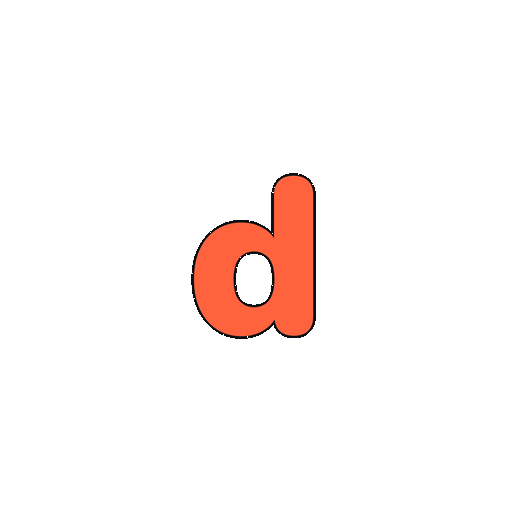
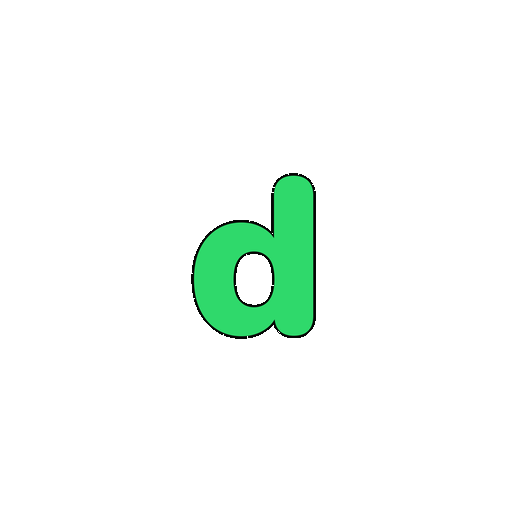
Black and green
The page is a near-black with a trace of green in it, so the artist
photographs sit on it without a colour fight. Panels lift off it in
charcoal, and the headers carry a deep forest wash, because once every
surface is dark the old ink-on-ivory contrast stops separating a screen's
top from its body.

Green is the money colour, spent only where money is: prices, Buy, Owned,
paid out. Little of the screen is green, which is what makes it read.

- One green at two intensities replaces coral and lime; danger had to
  lighten to stay readable on black.
- Tab bar and headers sit on the darkest layer; the status bar is light
  everywhere, since there are no light screens left.
- Generated cover art now draws from the app's own greens. The server
  sends a colour pair per release, but those were picked for the old
  palette and a bright blue square looked like someone else's app.
- Result tones are named for what they mean rather than what colour they
  used to be.
- Icons, manifest, HTML shell and native chrome follow.

Claude-Session: https://claude.ai/code/session_01R3QrLmgEWYcF8wcqpQix4P

Changed region(s): [[0.375, 0.3438, 0.625, 0.6562]]

diff --git a/src/components/checkout/ResultState.tsx b/src/components/checkout/ResultState.tsx
@@ -4,18 +4,18 @@ import { ActivityIndicator, StyleSheet, Text, View } from 'react-native';
 import type { PayWith } from '../../api/checkout';
 import { formatUGX } from '../../lib/money';
 import { formatPhone } from '../../lib/phone';
-import { colors, space, type, withAlpha } from '../../lib/theme';
+import { colors, space, type } from '../../lib/theme';
 import { Button, type IconName } from '../ui';
 
-type Tone = 'coral' | 'lime' | 'grey';
+type Tone = 'accent' | 'good' | 'quiet';
 const TONES: Record<Tone, { bg: string; fg: string }> = {
-  coral: { bg: withAlpha(colors.accent, 0.12), fg: colors.accent },
-  lime: { bg: colors.lime, fg: colors.limeInk },
-  grey: { bg: colors.surfaceRaised, fg: colors.textMuted },
+  accent: { bg: colors.accentSoft, fg: colors.accent },
+  good: { bg: colors.lime, fg: colors.limeInk },
+  quiet: { bg: colors.surfaceRaised, fg: colors.textMuted },
 };
 
 /** Full-screen confirmation or waiting state used by checkout, gifts and withdrawals. */
-export function ResultState({ icon, tone = 'coral', title, body, children, footnote, art }: {
+export function ResultState({ icon, tone = 'accent', title, body, children, footnote, art }: {
   icon: IconName; tone?: Tone; title: string; body: string; children?: ReactNode; footnote?: string;
   /** Shown in place of the icon, e.g. the cover of what was just bought. */
   art?: ReactNode;
@@ -53,7 +53,7 @@ export function WaitingForPin({ pay, amount }: { pay: PayWith | null; amount: nu
 /** Two minutes passed with no answer. Approving later still completes it. */
 export function StillWaiting({ what, onDone }: { what: string; onDone: () => void }) {
   return (
-    <ResultState icon="time-outline" tone="grey" title="Still waiting" footnote={TEST_MODE}
+    <ResultState icon="time-outline" tone="quiet" title="Still waiting" footnote={TEST_MODE}
       body={`We haven’t heard back from your mobile money provider yet. If you approve the prompt, ${what}. If you don’t, nothing is charged.`}>
       <Button label="Done" onPress={onDone} />
     </ResultState>
@@ -63,7 +63,7 @@ export function StillWaiting({ what, onDone }: { what: string; onDone: () => voi
 /** The payment arrived but the order couldn't be completed, so the money is kept for them. */
 export function KeptAsCredit({ reason, credit, onDone }: { reason: string | null; credit: number; onDone: () => void }) {
   return (
-    <ResultState icon="shield-checkmark-outline" tone="lime" title="Your money is safe"
+    <ResultState icon="shield-checkmark-outline" tone="good" title="Your money is safe"
       body={`${reason ?? 'We couldn’t finish this.'} Your payment is saved as ${formatUGX(credit)} of Deegee credit, and it comes off the next thing you buy.`}>
       <Button label="Done" onPress={onDone} />
     </ResultState>

diff --git a/src/lib/theme.ts b/src/lib/theme.ts
@@ -1,33 +1,36 @@
-// Deegee: warm ivory screens, ink-black type and dark "stage" moments (the player), coral for
-// actions and what's playing, and a soft lime only for good news (Owned, Live, growth).
+// Deegee runs black and green. The page is a near-black that leans very slightly green, so warm
+// photographs of artists sit on it without a colour fight. Panels lift off it in charcoal; the dark
+// headers carry a deep forest wash so a screen still has a top and a body rather than being one black
+// sheet. Green is the money colour and is spent only where money is: prices, Buy, Owned, paid out.
 export const colors = {
-  bg: '#F8F5EE', // warm ivory
-  surface: '#FFFFFF',
-  surfaceRaised: '#EFEAE1',
-  surfacePress: '#E7E1D6',
-  border: '#E7E1D6',
-  text: '#101014', // ink black
-  textMuted: '#5F5A52',
-  textFaint: '#8A8378',
-  accent: '#FF633E', // coral: fills, icons, the wordmark
-  accentText: '#C2381A', // coral dark enough to read as text on ivory
-  accentInk: '#FFFFFF', // text on coral buttons
-  lime: '#C8F56A',
-  limeInk: '#101014',
-  ink: '#101014',
-  success: '#2F7D32',
-  danger: '#C62828',
-  momo: '#FFCB05',
-  airtel: '#E40000',
+  bg: '#0A0C0A', // near-black, a touch of green in it
+  surface: '#121613', // cards, rows, inputs
+  surfaceRaised: '#1A201B',
+  surfacePress: '#232A24',
+  border: '#232A24',
+  text: '#F1F3EE', // warm off-white, not a clinical white
+  textMuted: '#99A398',
+  textFaint: '#6A7369',
+  accent: '#2FD96B', // the one green: actions and prices
+  accentText: '#58E88A', // lighter, for green set as text on the dark
+  accentInk: '#06130B', // text on a green fill
+  accentSoft: '#123520', // deep forest: tinted fills and the header wash
+  lime: '#2FD96B', // kept for the owned state, now the same green
+  limeInk: '#06130B',
+  ink: '#070907', // the darkest layer: headers, the player, the tab bar
+  success: '#2FD96B',
+  danger: '#FF6B6B', // reds have to be lighter to read on black
+  momo: '#FFCB05', // MTN's own yellow
+  airtel: '#E40000', // Airtel's own red
 };
 
-/** Colours for the dark "stage" screens (the player) and dark cards. */
+/** Was the exception for dark screens; now the app is dark, so these line up with the main palette. */
 export const onDark = {
-  bg: '#101014',
-  surface: '#1C1C22',
-  text: '#FFFFFF',
-  textMuted: '#B9B5AD',
-  accentText: '#FF8A6B',
+  bg: colors.ink,
+  surface: '#161C17',
+  text: colors.text,
+  textMuted: colors.textMuted,
+  accentText: colors.accentText,
 };
 
 // One family does almost everything: Plus Jakarta Sans, heavy and geometric for headings, clean for

diff --git a/src/app/studio/index.tsx b/src/app/studio/index.tsx
@@ -10,7 +10,7 @@ import { StatusPill } from '../../components/studio/StatusPill';
 import { Button, EmptyState } from '../../components/ui';
 import { useLoad } from '../../hooks/useLoad';
 import { formatUGX } from '../../lib/money';
-import { colors, font, onDark, radius, space, type, withAlpha } from '../../lib/theme';
+import { colors, font, onDark, radius, space, type } from '../../lib/theme';
 
 type Studio = { artist: ArtistProfile | null; releases: StudioRelease[]; earnings: Earnings | null };
 
@@ -51,7 +51,7 @@ export default function StudioHome() {
   return (
     <ScrollView contentContainerStyle={styles.content}>
       <View style={styles.header}>
-        <Art seed={artist.id} colors={artist.colors} size={64} round photo={false} />
+        <Art seed={artist.id} size={64} round photo={false} />
         <View style={styles.flex}>
           <Text style={type.title}>{artist.name}</Text>
           <StatusPill status={artist.status} />
@@ -100,7 +100,7 @@ export default function StudioHome() {
         releases.map((r) => (
           <Pressable key={r.id} accessibilityLabel={`${r.title}, ${r.type}`} onPress={() => router.push({ pathname: '/studio/release/[id]', params: { id: r.id } })}
             accessibilityRole="button" style={({ pressed }) => [styles.release, pressed && styles.pressed]}>
-            <Art seed={r.id} colors={r.colors} size={56} photo={false} uri={r.coverUrl ? mediaUrl(r.coverUrl) : null} />
+            <Art seed={r.id} size={56} photo={false} uri={r.coverUrl ? mediaUrl(r.coverUrl) : null} />
             <View style={styles.flex}>
               <Text style={type.bodyBold} numberOfLines={1}>{r.title}</Text>
               <Text style={type.small}>{r.type} · {r.tracks.length} {r.tracks.length === 1 ? 'song' : 'songs'} · {formatUGX(r.priceUGX)}</Text>
@@ -131,7 +131,7 @@ export default function StudioHome() {
 
 const styles = StyleSheet.create({
   content: { padding: space.lg, gap: space.md, paddingBottom: space.xxl * 3 },
-  introBadge: { width: 88, height: 88, borderRadius: 44, alignItems: 'center', justifyContent: 'center', backgroundColor: withAlpha(colors.accent, 0.12) },
+  introBadge: { width: 88, height: 88, borderRadius: 44, alignItems: 'center', justifyContent: 'center', backgroundColor: colors.accentSoft },
   intro: { flex: 1, alignItems: 'center', justifyContent: 'center', padding: space.xl, gap: space.md },
   centered: { textAlign: 'center' },
   mutedCentered: { textAlign: 'center', color: colors.textMuted },

diff --git a/src/components/ui/cards.tsx b/src/components/ui/cards.tsx
@@ -46,7 +46,7 @@ export function ReleaseCard({ release, size = 148, subtitle, price = true }: { r
     <Pressable onPress={() => router.push(`/release/${release.id}`)} accessibilityLabel={`${release.title} by ${artist?.name}`}
       style={({ pressed }) => [{ width: size }, pressed && styles.pressed]}>
       <View>
-        <Art seed={release.id} colors={release.colors} size={size} style={styles.cover} />
+        <Art seed={release.id} size={size} style={styles.cover} />
         {release.year >= new Date().getFullYear() ? <View style={styles.newBadge}><Text style={styles.newText}>NEW</Text></View> : null}
       </View>
       <Text numberOfLines={1} style={[type.bodyBold, styles.cardTitle]}>{release.title}</Text>
@@ -60,7 +60,7 @@ export function ArtistCard({ artist, size = 132 }: { artist: Artist; size?: numb
   return (
     <Pressable onPress={() => router.push(`/artist/${artist.id}`)} accessibilityLabel={artist.name}
       style={({ pressed }) => [{ width: size }, pressed && styles.pressed]}>
-      <Art seed={artist.id} colors={artist.colors} size={size} round />
+      <Art seed={artist.id} size={size} round />
       <Text numberOfLines={1} style={[type.bodyBold, styles.cardTitle, styles.centered]}>{artist.name}</Text>
       <Text numberOfLines={1} style={[type.small, styles.centered]}>Artist</Text>
     </Pressable>
@@ -68,13 +68,13 @@ export function ArtistCard({ artist, size = 132 }: { artist: Artist; size?: numb
 }
 
 /** A tappable list row with art and two lines of text: used for artists and releases in lists. */
-export function ListRow({ seed, colors: art, round, title, subtitle, onPress, artSize = 48 }: {
-  seed: string; colors: [string, string]; round?: boolean; title: string; subtitle: string; onPress: () => void; artSize?: number;
+export function ListRow({ seed, round, title, subtitle, onPress, artSize = 48 }: {
+  seed: string; round?: boolean; title: string; subtitle: string; onPress: () => void; artSize?: number;
 }) {
   return (
     <Pressable onPress={onPress} accessibilityRole="button" accessibilityLabel={`${title}, ${subtitle}`}
       style={({ pressed }) => [styles.listRow, pressed && styles.listRowPressed]}>
-      <Art seed={seed} colors={art} size={artSize} round={round} />
+      <Art seed={seed} size={artSize} round={round} />
       <View style={styles.flex}>
         <Text numberOfLines={1} style={type.bodyBold}>{title}</Text>
         <Text numberOfLines={1} style={type.small}>{subtitle}</Text>

diff --git a/src/app/(tabs)/index.tsx b/src/app/(tabs)/index.tsx
@@ -26,7 +26,7 @@ export default function Home() {
   const featured = releases.find((r) => r.exclusive) ?? releases[0];
   const newest = [...releases].sort((a, b) => b.year - a.year);
 
-  // Artists you've bought from come first, with a coral ring; then others worth backing.
+  // Artists you've bought from come first, with a green ring; then others worth backing.
   const backed = new Set(owned.map((t) => releases.find((r) => tracksForRelease(r.id).some((x) => x.id === t))?.artistId));
   const artists = [...listArtists()].sort((a, b) => Number(backed.has(b.id)) - Number(backed.has(a.id)));
 
@@ -93,7 +93,7 @@ function Hero({ release, playing, onPlay }: { release: Release; playing: boolean
   const open = () => router.push(`/release/${release.id}`);
   return (
     <View style={[styles.hero, { height }]}>
-      {artist ? <Art seed={artist.id} colors={artist.colors} size={Math.max(width, height)} style={[styles.heroArt, { left: (width - Math.max(width, height)) / 2 }]} /> : null}
+      {artist ? <Art seed={artist.id} size={Math.max(width, height)} style={[styles.heroArt, { left: (width - Math.max(width, height)) / 2 }]} /> : null}
       {/* Keep the logo fully on ink, then ease gradually into the portrait.
           A separate bottom fade protects the release copy without a dark band through the face. */}
       <LinearGradient
@@ -143,7 +143,7 @@ function ArtistBubble({ artist, backed }: { artist: Artist; backed: boolean }) {
     <Pressable onPress={() => router.push(`/artist/${artist.id}`)} accessibilityRole="button"
       accessibilityLabel={backed ? `${artist.name}, you back this artist` : artist.name} style={styles.bubble}>
       <View style={[styles.ring, backed && styles.ringOn]}>
-        <Art seed={artist.id} colors={artist.colors} size={68} round />
+        <Art seed={artist.id} size={68} round />
       </View>
       <Text numberOfLines={2} style={styles.bubbleName}>{artist.name}</Text>
     </Pressable>

diff --git a/src/components/Art.tsx b/src/components/Art.tsx
@@ -21,14 +21,30 @@ function hash(s: string) {
   return Math.abs(h);
 }
 
-export function Art({ seed, colors: [a, b], size, round, style, photo = true, uri: imageUri }: {
-  seed: string; colors: [string, string]; size: number; round?: boolean; style?: StyleProp<ViewStyle>; photo?: boolean;
+/**
+ * The generated covers stay inside the app's own greens. The server sends a colour pair per release,
+ * but those were picked for the old palette and a bright blue square on this background looks like
+ * someone else's app, so the pair is chosen here from the seed instead: same artwork every time, and
+ * always of a piece with everything around it.
+ */
+const PAIRS: [string, string][] = [
+  ['#0F3D2A', '#1E7A4E'], // forest to emerald
+  ['#0B3A3A', '#1C7C73'], // deep teal
+  ['#133D1A', '#3C8F2E'], // pine to leaf
+  ['#0D2F3C', '#1E6F86'], // petrol, the cool one
+  ['#1A3A12', '#5FA524'], // olive to moss
+  ['#082E22', '#2FD96B'], // near-black to the brand green
+];
+
+export function Art({ seed, size, round, style, photo = true, uri: imageUri }: {
+  seed: string; size: number; round?: boolean; style?: StyleProp<ViewStyle>; photo?: boolean;
   uri?: string | null; // a specific image (e.g. a draft's uploaded cover) instead of the one looked up by seed
 }) {
   // Mock photos load from the web on top of the pattern; if offline or a photo fails, the pattern stays.
   const [photoFailed, setPhotoFailed] = useState(false);
   const source = photoFailed ? null : imageUri ? { uri: imageUri } : photo ? photoSource(seed) : null;
   const h = hash(seed);
+  const [a, b] = PAIRS[h % PAIRS.length];
   const variant = VARIANTS[h % VARIANTS.length];
   const id = `g${h}`;
   const S = 100;

diff --git a/src/app/(tabs)/search.tsx b/src/app/(tabs)/search.tsx
@@ -19,7 +19,7 @@ function GenreTile({ genre, onPress }: { genre: Genre; onPress: () => void }) {
     <View style={styles.genreCell}>
       <Pressable onPress={onPress} accessibilityRole="button" accessibilityLabel={genre}
         style={({ pressed }) => [styles.genreTile, pressed && styles.pressed]}>
-        {sample ? <Art seed={sample.id} colors={sample.colors} size={160} style={styles.genreArt} /> : null}
+        {sample ? <Art seed={sample.id} size={160} style={styles.genreArt} /> : null}
         <LinearGradient colors={[withAlpha(colors.ink, 0), withAlpha(colors.ink, 0.8)]} locations={[0.3, 1]} style={StyleSheet.absoluteFill} />
         <Text numberOfLines={2} style={styles.genreName}>{genre}</Text>
       </Pressable>
@@ -65,10 +65,10 @@ export default function Search() {
       {searching && !nothing ? (
         <View style={styles.results}>
           {results.artists.map((a) => (
-            <ListRow key={a.id} seed={a.id} colors={a.colors} round title={a.name} subtitle="Artist" onPress={() => router.push(`/artist/${a.id}`)} />
+            <ListRow key={a.id} seed={a.id} round title={a.name} subtitle="Artist" onPress={() => router.push(`/artist/${a.id}`)} />
           ))}
           {results.releases.map((r) => (
-            <ListRow key={r.id} seed={r.id} colors={r.colors} title={r.title} subtitle={`${r.type} · ${getArtist(r.artistId)?.name}`}
+            <ListRow key={r.id} seed={r.id} title={r.title} subtitle={`${r.type} · ${getArtist(r.artistId)?.name}`}
               onPress={() => router.push(`/release/${r.id}`)} />
           ))}
           {results.tracks.map((t, i) => (

diff --git a/src/app/_layout.tsx b/src/app/_layout.tsx
@@ -5,7 +5,7 @@ import { PlusJakartaSans_500Medium } from '@expo-google-fonts/plus-jakarta-sans/
 import { PlusJakartaSans_600SemiBold } from '@expo-google-fonts/plus-jakarta-sans/600SemiBold';
 import { PlusJakartaSans_700Bold } from '@expo-google-fonts/plus-jakarta-sans/700Bold';
 import { PlusJakartaSans_800ExtraBold } from '@expo-google-fonts/plus-jakarta-sans/800ExtraBold';
-import { Stack, useSegments } from 'expo-router';
+import { Stack } from 'expo-router';
 import { Wordmark } from '../components/Wordmark';
 import { StatusBar } from 'expo-status-bar';
 import { useEffect } from 'react';
@@ -82,8 +82,6 @@ export default function RootLayout() {
   const signedIn = useSignedIn();
   const hasName = useSession((s) => Boolean(s.user?.name?.trim()));
   const catalog = useCatalog((s) => s.status);
-  const segments = useSegments();
-  const lightScreen = segments[0] === 'sign-in' || segments[0] === 'welcome';
   const catalogError = useCatalog((s) => s.error);
 
   useEffect(() => { void useCatalog.getState().load(); }, []);
@@ -94,8 +92,8 @@ export default function RootLayout() {
 
   return (
     <View style={styles.root}>
-      {/* Every screen has a dark top except the two ivory ones you only see once. */}
-      <StatusBar style={lightScreen ? 'dark' : 'light'} />
+      {/* The whole app is dark now, top to bottom. */}
+      <StatusBar style="light" />
       {/* Playback is a browser thing; there is no audio on the machine that renders these pages. */}
       {PRERENDERING ? null : <PlayerEngine />}
       <AccountSync signedIn={signedIn} />

diff --git a/src/app/(tabs)/library.tsx b/src/app/(tabs)/library.tsx
@@ -94,7 +94,7 @@ export default function Library() {
           <View style={styles.grid}>
             {ownedReleases.map((r) => (
               <Pressable key={r.id} onPress={() => router.push(`/release/${r.id}`)} accessibilityLabel={r.title} style={styles.gridCell}>
-                <View style={styles.gridArt}><Art seed={r.id} colors={r.colors} size={170} style={styles.fill} /></View>
+                <View style={styles.gridArt}><Art seed={r.id} size={170} style={styles.fill} /></View>
                 <View style={styles.gridMeta}>
                   <Text numberOfLines={1} style={type.bodyBold}>{r.title}</Text>
                   <Text numberOfLines={1} style={type.small}>{getArtist(r.artistId)?.name}</Text>
@@ -109,7 +109,7 @@ export default function Library() {
       {signedIn && view === 'Artists' ? (
         myArtists.length === 0 ? <EmptyState icon="people-outline" title="No artists yet" body="Follow artists or buy their music to keep them here." /> : (
           myArtists.map((a) => (
-            <ListRow key={a.id} seed={a.id} colors={a.colors} round artSize={64} title={a.name}
+            <ListRow key={a.id} seed={a.id} round artSize={64} title={a.name}
               subtitle={following.includes(a.id) ? 'Following' : 'Artist'} onPress={() => router.push(`/artist/${a.id}`)} />
           ))
         )

diff --git a/src/components/ui/ScreenHeader.tsx b/src/components/ui/ScreenHeader.tsx
@@ -1,4 +1,5 @@
 import type { ReactNode } from 'react';
+import { LinearGradient } from 'expo-linear-gradient';
 import { StyleSheet, Text, View } from 'react-native';
 import { useSafeAreaInsets } from 'react-native-safe-area-context';
 import { colors, font, onDark, radius, space } from '../../lib/theme';
@@ -14,6 +15,8 @@ export function ScreenHeader({ title, subtitle, right, children }: {
   const insets = useSafeAreaInsets();
   return (
     <View style={[styles.top, { paddingTop: insets.top + space.sm }]}>
+      <LinearGradient colors={[colors.accentSoft, colors.ink]} start={{ x: 0, y: 0 }} end={{ x: 0.6, y: 1 }}
+        style={StyleSheet.absoluteFill} pointerEvents="none" />
       <View style={styles.bar}>
         <Wordmark size={28} style={styles.flex} />
         {right}
@@ -41,5 +44,5 @@ const styles = StyleSheet.create({
   flex: { flex: 1 },
   title: { fontFamily: font.display, fontSize: 32, lineHeight: 38, letterSpacing: -1, color: onDark.text, marginTop: space.xs },
   subtitle: { fontFamily: font.medium, fontSize: 15, lineHeight: 21, color: onDark.textMuted, marginTop: space.xs },
-  strip: { position: 'absolute', top: 0, left: 0, right: 0, backgroundColor: colors.ink },
+  strip: { position: 'absolute', top: 0, left: 0, right: 0, backgroundColor: colors.accentSoft },
 });

diff --git a/src/components/checkout/PayWith.tsx b/src/components/checkout/PayWith.tsx
@@ -2,7 +2,7 @@ import { useState } from 'react';
 import { Pressable, StyleSheet, Text, TextInput, View } from 'react-native';
 import type { PayWith } from '../../api/checkout';
 import { formatPhone, guessProvider, normalizeUgPhone, type Provider } from '../../lib/phone';
-import { colors, font, radius, space, type, withAlpha } from '../../lib/theme';
+import { colors, font, radius, space, type } from '../../lib/theme';
 import { useSession } from '../../store/session';
 import { tap } from '../ui';
 
@@ -64,7 +64,7 @@ const styles = StyleSheet.create({
   wrap: { gap: space.md },
   options: { gap: space.sm },
   option: { flexDirection: 'row', alignItems: 'center', gap: space.md, padding: space.md, borderRadius: radius.lg, backgroundColor: colors.surface, borderWidth: 1.5, borderColor: colors.border },
-  optionOn: { borderColor: colors.accent, backgroundColor: withAlpha(colors.accent, 0.06) },
+  optionOn: { borderColor: colors.accent, backgroundColor: colors.accentSoft },
   tile: { width: 52, height: 36, borderRadius: radius.xs, alignItems: 'center', justifyContent: 'center' },
   tileText: { fontFamily: font.display, fontSize: 13 },
   flex: { flex: 1 },

diff --git a/src/app/+html.tsx b/src/app/+html.tsx
@@ -20,7 +20,7 @@ export default function Root({ children }: PropsWithChildren) {
         <meta name="viewport" content="width=device-width, initial-scale=1, shrink-to-fit=no, viewport-fit=cover" />
 
         <link rel="manifest" href="/manifest.json" />
-        <meta name="theme-color" content="#101014" />
+        <meta name="theme-color" content="#0A0C0A" />
         <meta name="mobile-web-app-capable" content="yes" />
         <meta name="apple-mobile-web-app-capable" content="yes" />
         <meta name="apple-mobile-web-app-title" content="Deegee" />
@@ -43,10 +43,10 @@ export default function Root({ children }: PropsWithChildren) {
 
 const SHELL_CSS = `
 /* Ink while the page loads, so an installed app opens dark rather than flashing white. */
-html, body, #root { background-color: #101014; }
+html, body, #root { background-color: #0A0C0A; }
 /* The app is a phone-shaped column; centre it rather than stretching it across a desktop. */
 @media (min-width: 560px) {
-  body { background-color: #17171d; }
+  body { background-color: #050605; }
   #root { width: 100%; max-width: 460px; margin: 0 auto; box-shadow: 0 0 60px rgba(0,0,0,0.45); }
 }
 `;
